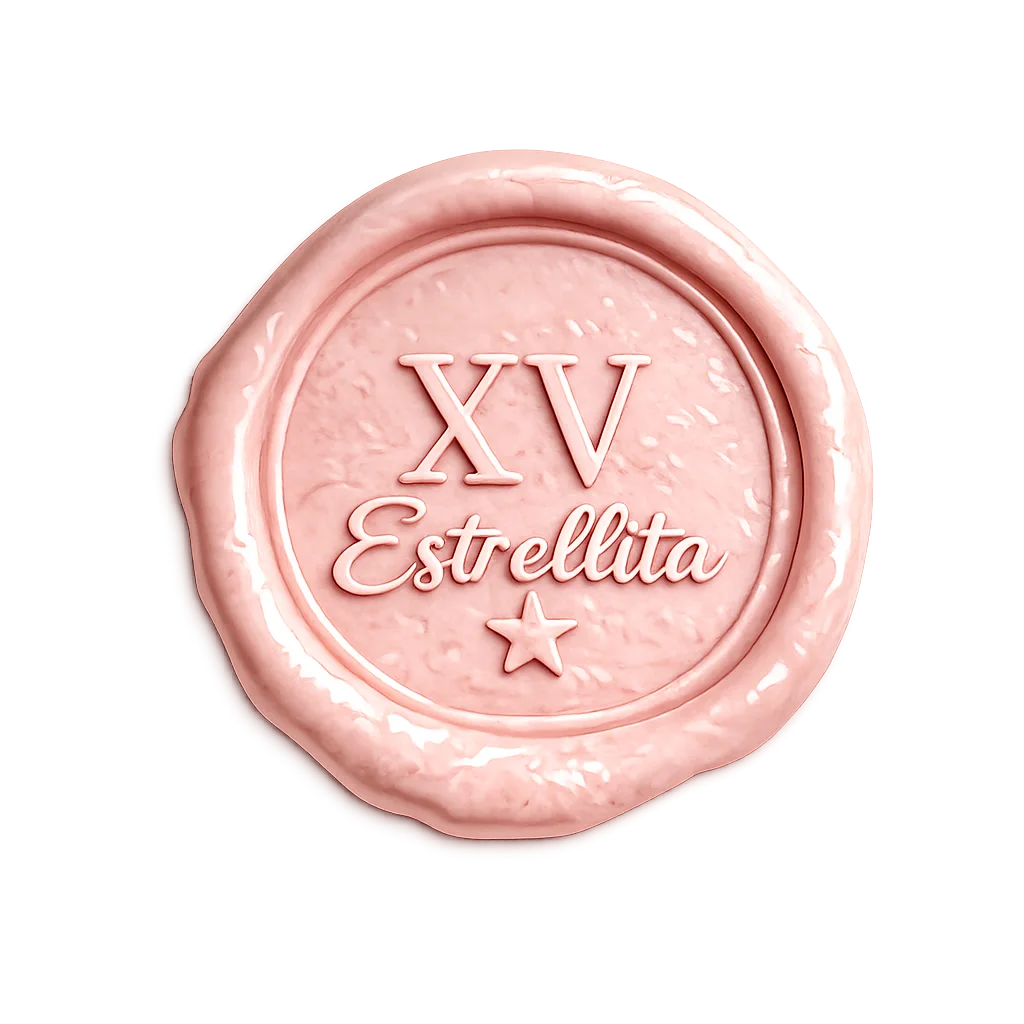
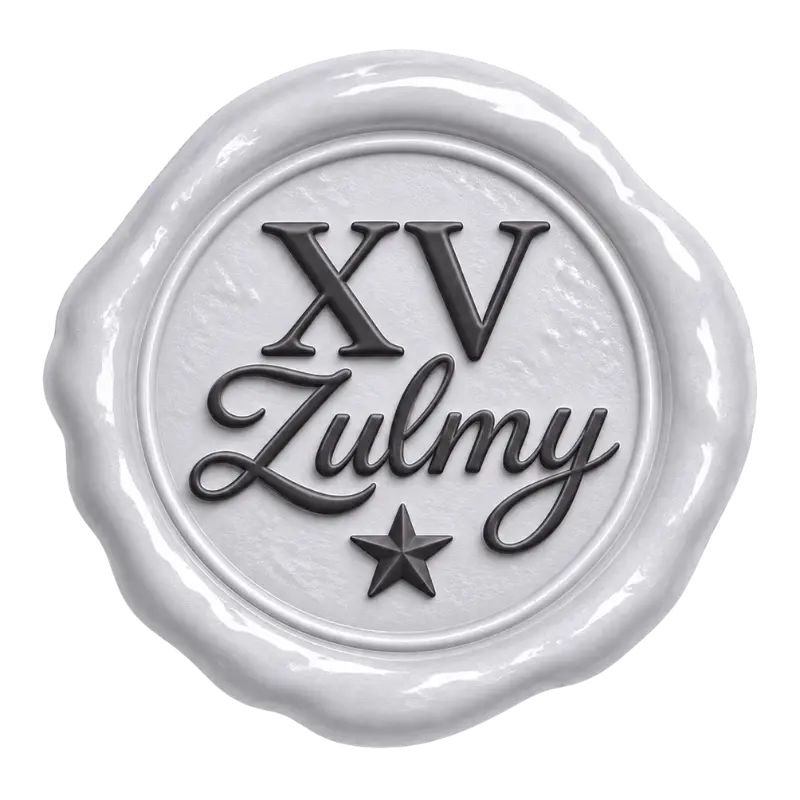
añadi el nuevo sobre con la nueva paleta de colores

diff --git a/style.css b/style.css
@@ -37,7 +37,7 @@ html {
   margin: 0;
   padding: 0;
   box-sizing: border-box;
-}
+} 
 
 body {
   background: rgba(253, 246, 247, 0.3);
@@ -204,7 +204,7 @@ section.visible .mes-año {
   left: 0;
   width: 100%;
   height: 100%;
-  background-image: url("./assets/images/bk2.webp");
+  background-image: url("assets/images/BK.webp");
   background-size: cover;
   background-position: center;
   background-repeat: no-repeat;
@@ -225,24 +225,28 @@ section.visible .mes-año {
   width: 380px;
   height: 260px;
   position: relative;
-  box-shadow: 0 15px 35px rgba(0, 0, 0, 0.22), 0 5px 12px rgba(0, 0, 0, 0.15);
   cursor: pointer;
-  border-radius: 4px;
+  border-radius: 6px;
+  box-shadow:
+    0 18px 35px rgba(6, 20, 62, 0.22),
+    0 8px 18px rgba(6, 20, 62, 0.18),
+    0 2px 6px rgba(0, 0, 0, 0.12);
+  overflow: visible;
 }
 
+/* Cuerpo base del sobre */
 #sobre-body {
   position: absolute;
-  top: 0;
-  left: 0;
-  width: 100%;
-  height: 100%;
-  background: #e6e1d8;
-  border-radius: 4px;
+  inset: 0;
+  background: linear-gradient(180deg, #203b74 0%, #1a3265 100%);
+  border-radius: 6px;
   z-index: 1;
+  box-shadow:
+    inset 0 1px 0 rgba(255, 255, 255, 0.08),
+    inset 0 -8px 18px rgba(0, 0, 0, 0.14);
 }
 
 /* Aleta izquierda */
-
 #sobre::before {
   content: "";
   position: absolute;
@@ -250,14 +254,15 @@ section.visible .mes-año {
   left: 0;
   width: 0;
   height: 0;
-  border-left: 190px solid #ece8df;
+  border-left: 190px solid #1c356a;
   border-top: 130px solid transparent;
   border-bottom: 130px solid transparent;
   z-index: 3;
+  filter: drop-shadow(2px 0 2px rgba(255, 255, 255, 0.04))
+    drop-shadow(4px 0 10px rgba(0, 0, 0, 0.10));
 }
 
 /* Aleta derecha */
-
 #sobre::after {
   content: "";
   position: absolute;
@@ -265,14 +270,15 @@ section.visible .mes-año {
   right: 0;
   width: 0;
   height: 0;
-  border-right: 190px solid #ece8df;
+  border-right: 190px solid #1c356a;
   border-top: 130px solid transparent;
   border-bottom: 130px solid transparent;
   z-index: 3;
+  filter: drop-shadow(-2px 0 2px rgba(255, 255, 255, 0.04))
+    drop-shadow(-4px 0 10px rgba(0, 0, 0, 0.10));
 }
 
 /* Aleta inferior */
-
 #sobre-body::after {
   content: "";
   position: absolute;
@@ -282,13 +288,14 @@ section.visible .mes-año {
   height: 0;
   border-left: 190px solid transparent;
   border-right: 190px solid transparent;
-  border-bottom: 145px solid #f2eedf;
+  border-bottom: 145px solid #2a4178;
   z-index: 4;
-  filter: drop-shadow(0 -20px 15px rgba(0, 0, 0, 0.08));
+  filter:
+    drop-shadow(0 -10px 10px rgba(0, 0, 0, 0.10))
+    drop-shadow(0 -2px 2px rgba(255, 255, 255, 0.04));
 }
 
 /* Solapa superior */
-
 #sobre-flap {
   position: absolute;
   top: 0;
@@ -297,12 +304,17 @@ section.visible .mes-año {
   height: 0;
   border-left: 190px solid transparent;
   border-right: 190px solid transparent;
-  border-top: 155px solid #faf8f5;
+  border-top: 155px solid #2d4a87;
   z-index: 5;
   transform-origin: top center;
   transition: transform 0.8s cubic-bezier(0.4, 0, 0.2, 1), z-index 0.3s;
-  filter: drop-shadow(0 10px 10px rgba(0, 0, 0, 0.18))
-    drop-shadow(0 4px 4px rgba(0, 0, 0, 0.12));
+  filter:
+    drop-shadow(0 10px 12px rgba(0, 0, 0, 0.22))
+    drop-shadow(0 3px 3px rgba(255, 255, 255, 0.05));
+}
+
+#sobre-flap::after {
+  content: none;
 }
 
 #sobre-flap.abierto {
@@ -311,7 +323,6 @@ section.visible .mes-año {
 }
 
 /* Sello */
-
 #sello {
   width: 110px;
   height: 110px;
@@ -329,7 +340,9 @@ section.visible .mes-año {
   z-index: 99;
   animation: pulsar 2s ease-in-out infinite;
   transition: opacity 0.4s ease, transform 0.4s ease;
-  filter: drop-shadow(0 5px 6px rgba(0, 0, 0, 0.25));
+  filter:
+    drop-shadow(0 6px 10px rgba(0, 0, 0, 0.22))
+    drop-shadow(0 2px 4px rgba(255, 255, 255, 0.06));
 }
 
 #sello:hover {
@@ -353,9 +366,10 @@ section.visible .mes-año {
 .sobre-texto {
   font-family: "The Nautigal", cursive;
   font-size: 32px;
-  color: var(--texto-medio);
-  text-shadow: 0 0 8px rgba(255, 255, 255, 0.9),
-    0 0 15px rgba(255, 255, 255, 0.7);
+  color: #13275b;
+  text-shadow:
+    0 0 8px rgba(255, 255, 255, 0.85),
+    0 0 15px rgba(255, 255, 255, 0.55);
   position: absolute;
   top: calc(50% - 180px);
   left: 50%;
@@ -380,7 +394,6 @@ section.visible .mes-año {
     transform: scale(1.05);
   }
 }
-
 /* ===========================
    PORTADA
 =========================== */
@@ -415,7 +428,6 @@ section.visible .mes-año {
   height: auto;
   display: block;
   margin: 0 auto -40px;
-  animation: flotar 3s ease-in-out infinite;
   filter: drop-shadow(0 4px 4px rgba(61, 59, 59, 0.55));
   position: relative;
   z-index: 2;

diff --git a/index.html b/index.html
@@ -23,12 +23,12 @@
       </div>
       <p class="sobre-texto">Toca el sello para abrir</p>
     </div>
-    <img class="fondo-bg" src="assets/images/bk-gn.webp" alt="" />
+    <img class="fondo-bg" src="assets/images/BK.webp"" />
     <!-- SECCIÓN 1: PORTADA -->
     <section id="portada">
       <img class="fondo-ocacional" src="assets/images/fondo-especial.webp" />
       <div class="hero">
-        <img src="assets/images/corona-2.webp" class="corona" alt="Corona" />
+        <img src="assets/images/Corona.webp" class="corona" alt="Corona" />
 
         <!-- Nuevo layout de Mis 15 Años -->
         <div class="titulo-grupo">
